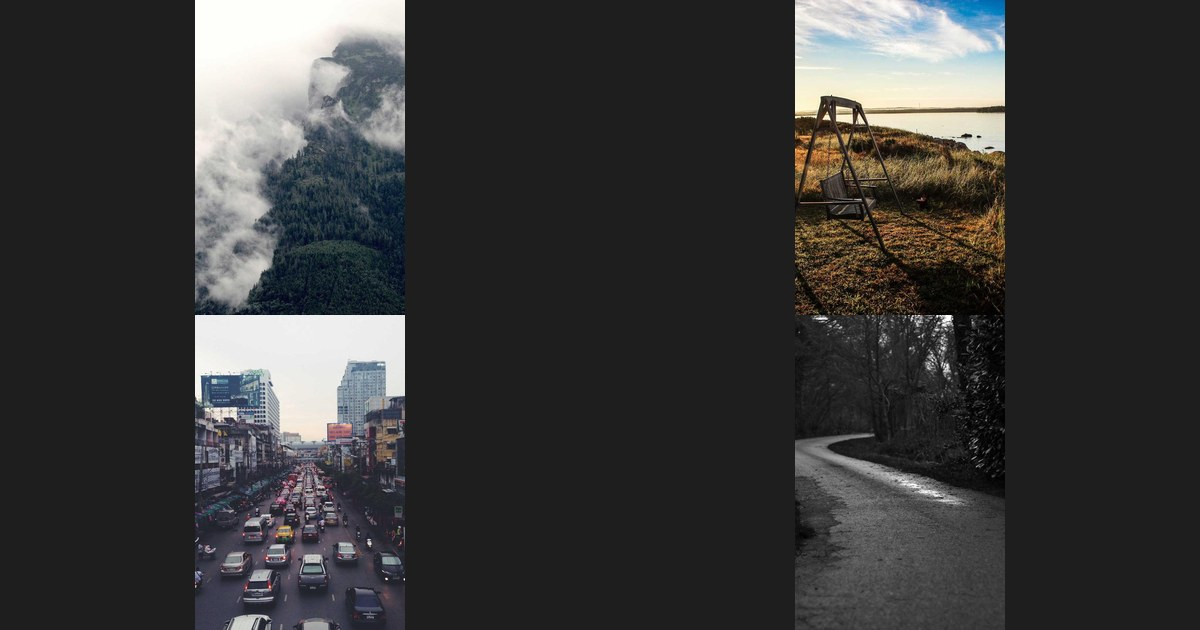
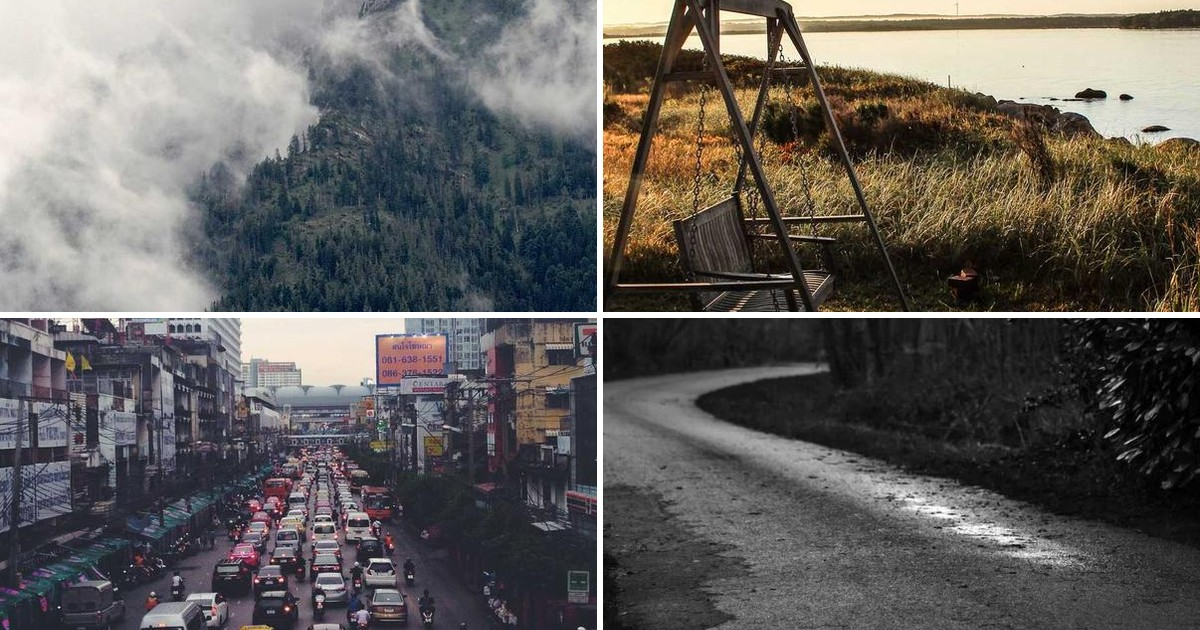
fix collage: 2x2 cover crop with white gutters

diff --git a/scripts/make_collage.py b/scripts/make_collage.py
@@ -7,35 +7,43 @@ from PIL import Image
 
 CANVAS_W = 1200
 CANVAS_H = 630
+GUTTER = 6  # 图片之间的细白边（像素）
+
+
+def _cover_crop(img: Image.Image, target_w: int, target_h: int) -> Image.Image:
+    """居中裁剪，铺满格子，不留黑边。"""
+    src_w, src_h = img.size
+    scale = max(target_w / src_w, target_h / src_h)
+    new_w = max(1, int(src_w * scale))
+    new_h = max(1, int(src_h * scale))
+    resized = img.resize((new_w, new_h), Image.Resampling.LANCZOS)
+    left = (new_w - target_w) // 2
+    top = (new_h - target_h) // 2
+    return resized.crop((left, top, left + target_w, top + target_h))
 
 
 def make_collage(image_paths: list[Path], output: Path) -> None:
     if len(image_paths) != 4:
         raise ValueError("需要恰好 4 张图片")
 
-    cell_w = CANVAS_W // 2
-    cell_h = CANVAS_H // 2
-    canvas = Image.new("RGB", (CANVAS_W, CANVAS_H), (20, 20, 20))
+    cell_w = (CANVAS_W - GUTTER) // 2
+    cell_h = (CANVAS_H - GUTTER) // 2
+    canvas = Image.new("RGB", (CANVAS_W, CANVAS_H), (255, 255, 255))
 
     positions = [
         (0, 0),
-        (cell_w, 0),
-        (0, cell_h),
-        (cell_w, cell_h),
+        (cell_w + GUTTER, 0),
+        (0, cell_h + GUTTER),
+        (cell_w + GUTTER, cell_h + GUTTER),
     ]
 
     for path, (x, y) in zip(image_paths, positions, strict=True):
         with Image.open(path) as img:
-            img = img.convert("RGB")
-            img.thumbnail((cell_w, cell_h), Image.Resampling.LANCZOS)
-            tile = Image.new("RGB", (cell_w, cell_h), (30, 30, 30))
-            offset_x = (cell_w - img.width) // 2
-            offset_y = (cell_h - img.height) // 2
-            tile.paste(img, (offset_x, offset_y))
+            tile = _cover_crop(img.convert("RGB"), cell_w, cell_h)
             canvas.paste(tile, (x, y))
 
     output.parent.mkdir(parents=True, exist_ok=True)
-    canvas.save(output, "JPEG", quality=88)
+    canvas.save(output, "JPEG", quality=90)
 
 
 def pick_images(images_dir: Path, count: int = 4) -> list[Path]: